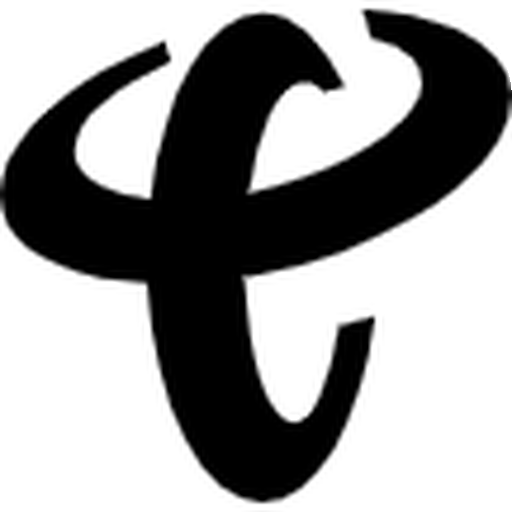
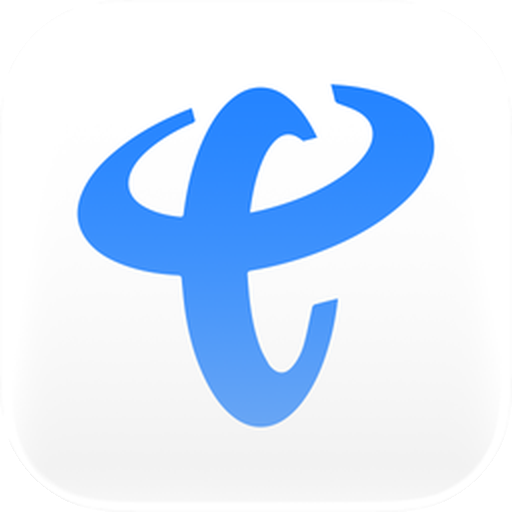
🎨 更新 ChinaTelecom / ChinaUnicom 图标并删除变体
- Telecom/ChinaTelecom：替换默认图标（白底蓝色 logo），删除变体 ChinaTelecom01
- Telecom/ChinaUnicom：替换默认图标（白底红色中国结 logo），删除变体 ChinaUnicom01

均按规范处理：512×512 RGBA、r=115 圆角、四角透明、与规范渲染逐像素差 0。
同步 surge-icon.json（360→358 条目，删除 2 个变体条目）+ Telecom 分类 README。
ci-validate-icons.py 全绿；计数 358 图标 / 270 品牌。

diff --git a/icons/Telecom/README.md b/icons/Telecom/README.md
@@ -1,14 +1,14 @@
 # 📡 Telecom / 运营商
 
-> 共 **13** 个图标，**10** 个品牌
+> 共 **11** 个图标，**10** 个品牌
 
 | 品牌 | 图标文件 |
 |:---|:---|
 | `Aqara` | `Aqara.png` |
 | `ChinaBroadnet` | `ChinaBroadnet.png` |
 | `ChinaMobile` | `ChinaMobile.png ChinaMobile01.png` |
-| `ChinaTelecom` | `ChinaTelecom.png ChinaTelecom01.png` |
-| `ChinaUnicom` | `ChinaUnicom.png ChinaUnicom01.png` |
+| `ChinaTelecom` | `ChinaTelecom.png` |
+| `ChinaUnicom` | `ChinaUnicom.png` |
 | `Honor` | `Honor.png` |
 | `Huawei` | `Huawei.png` |
 | `Mijia` | `Mijia.png` |
